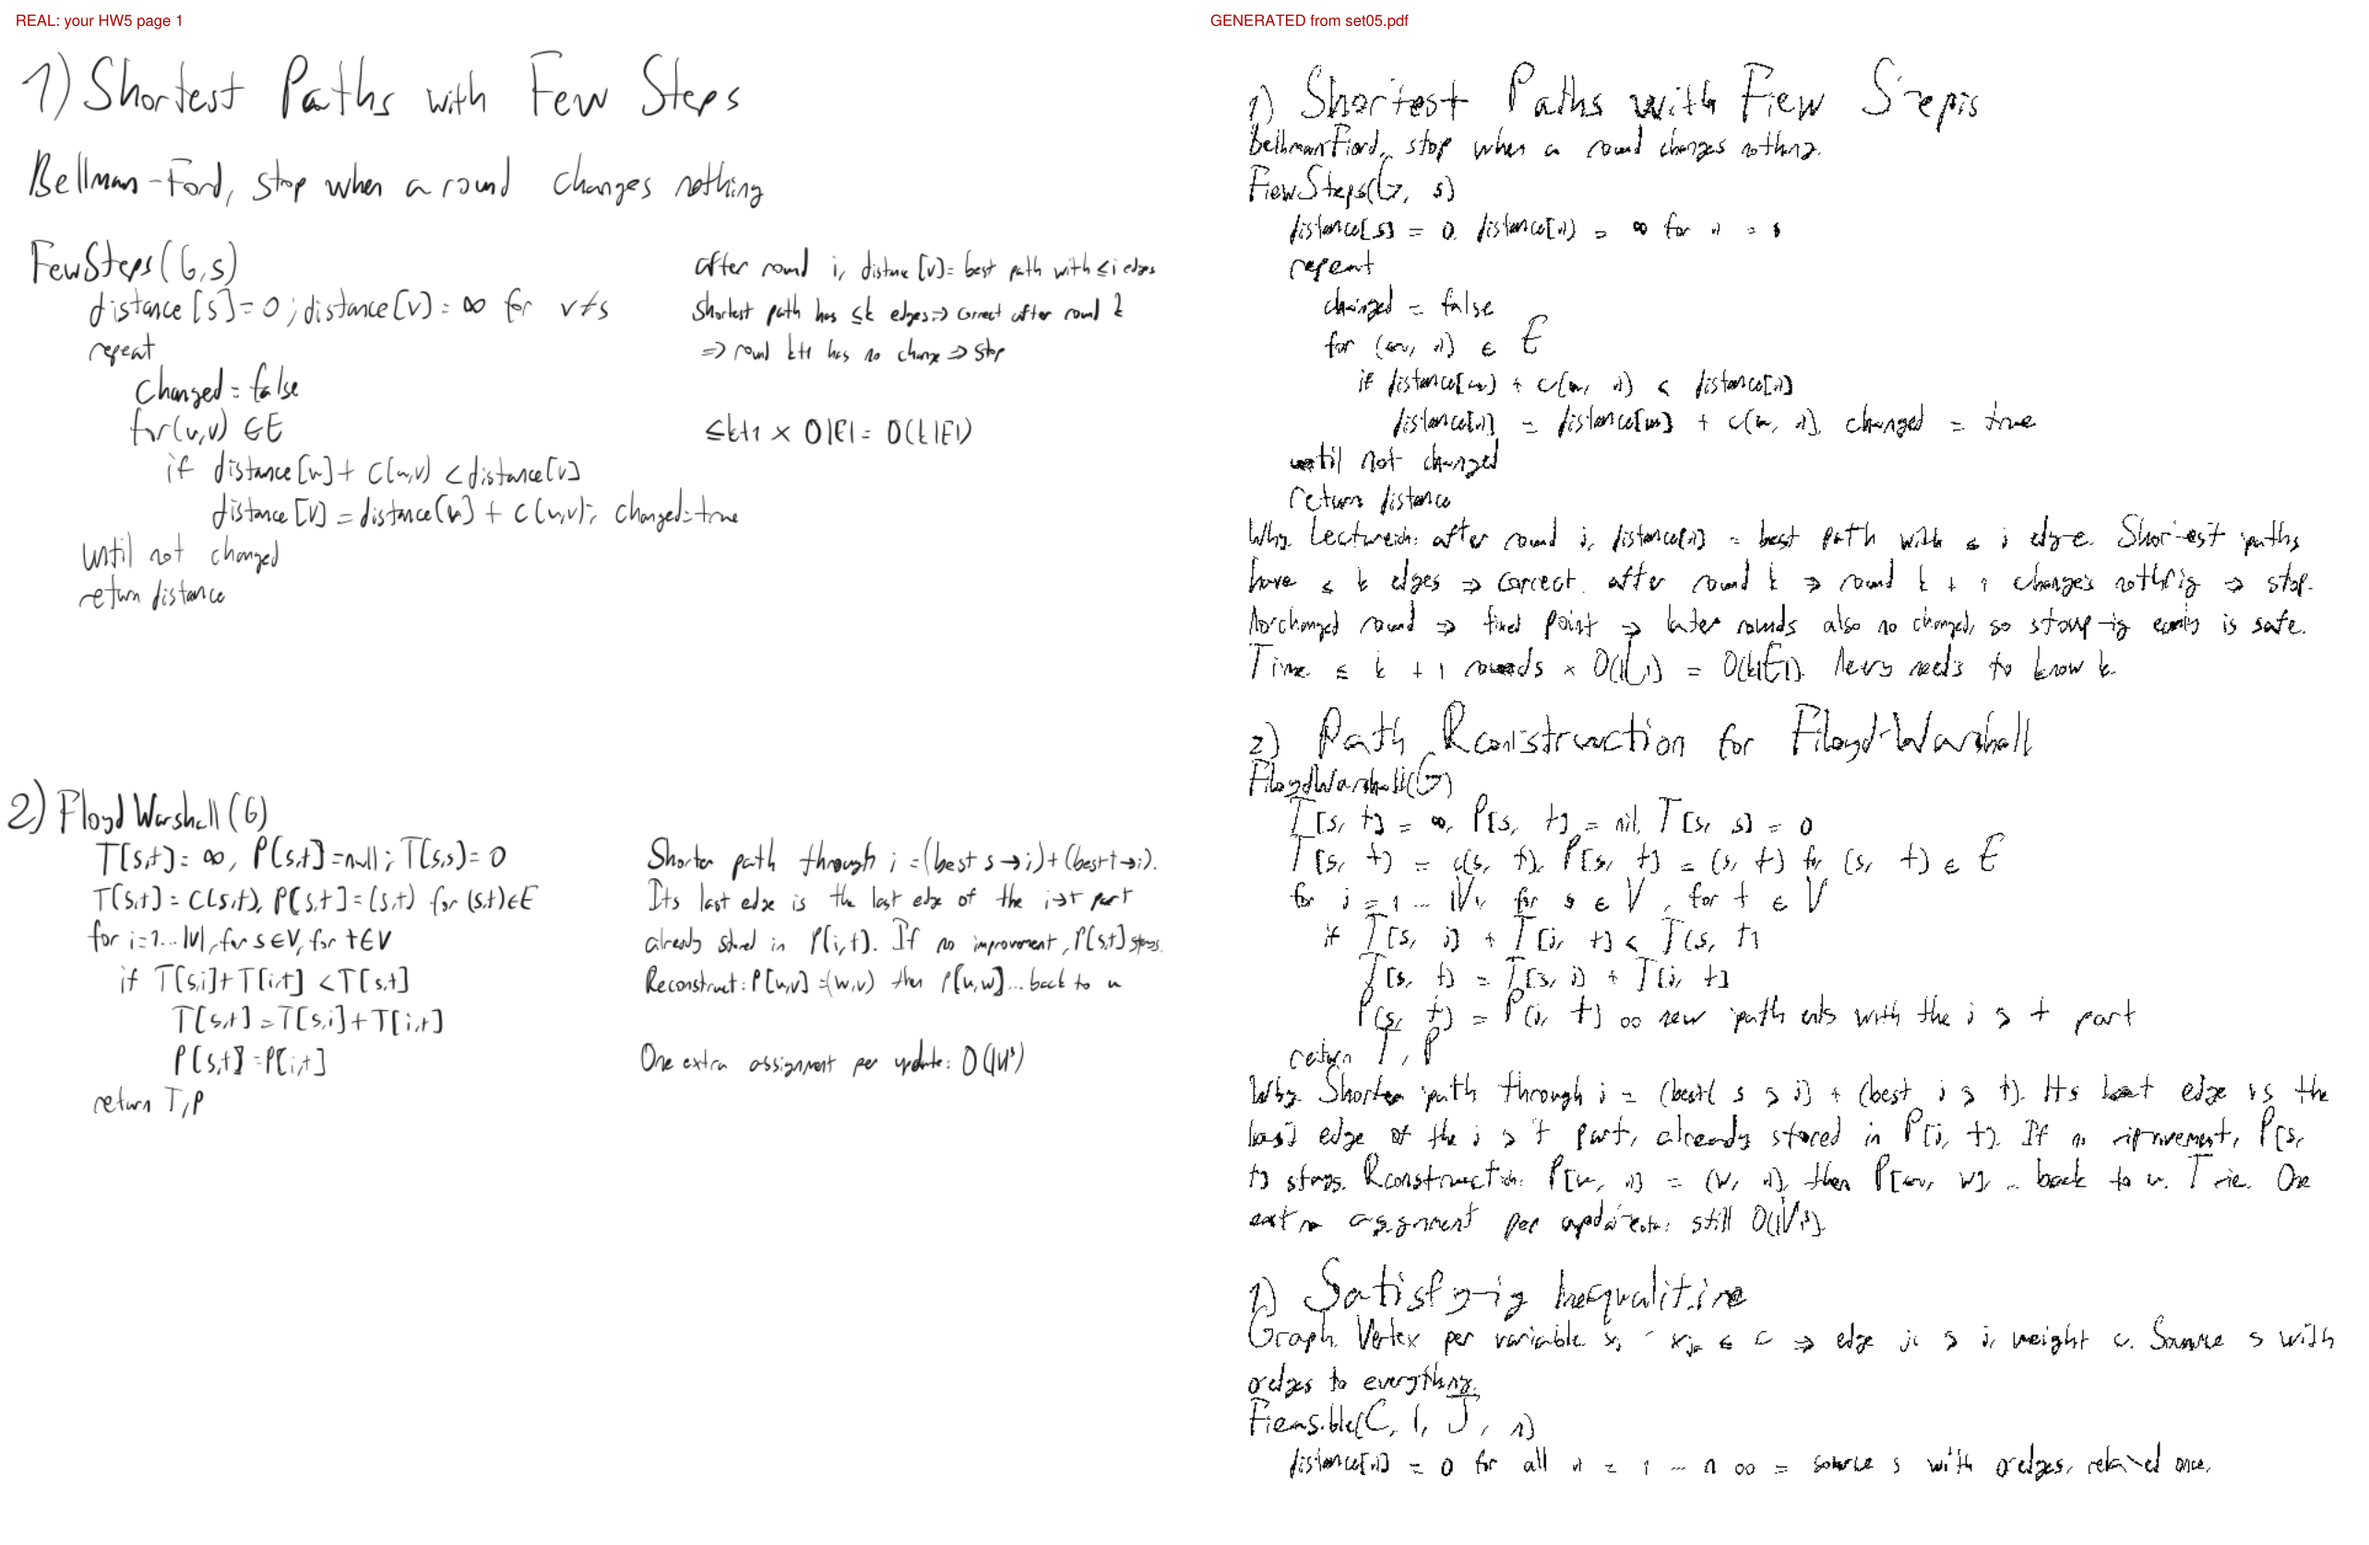
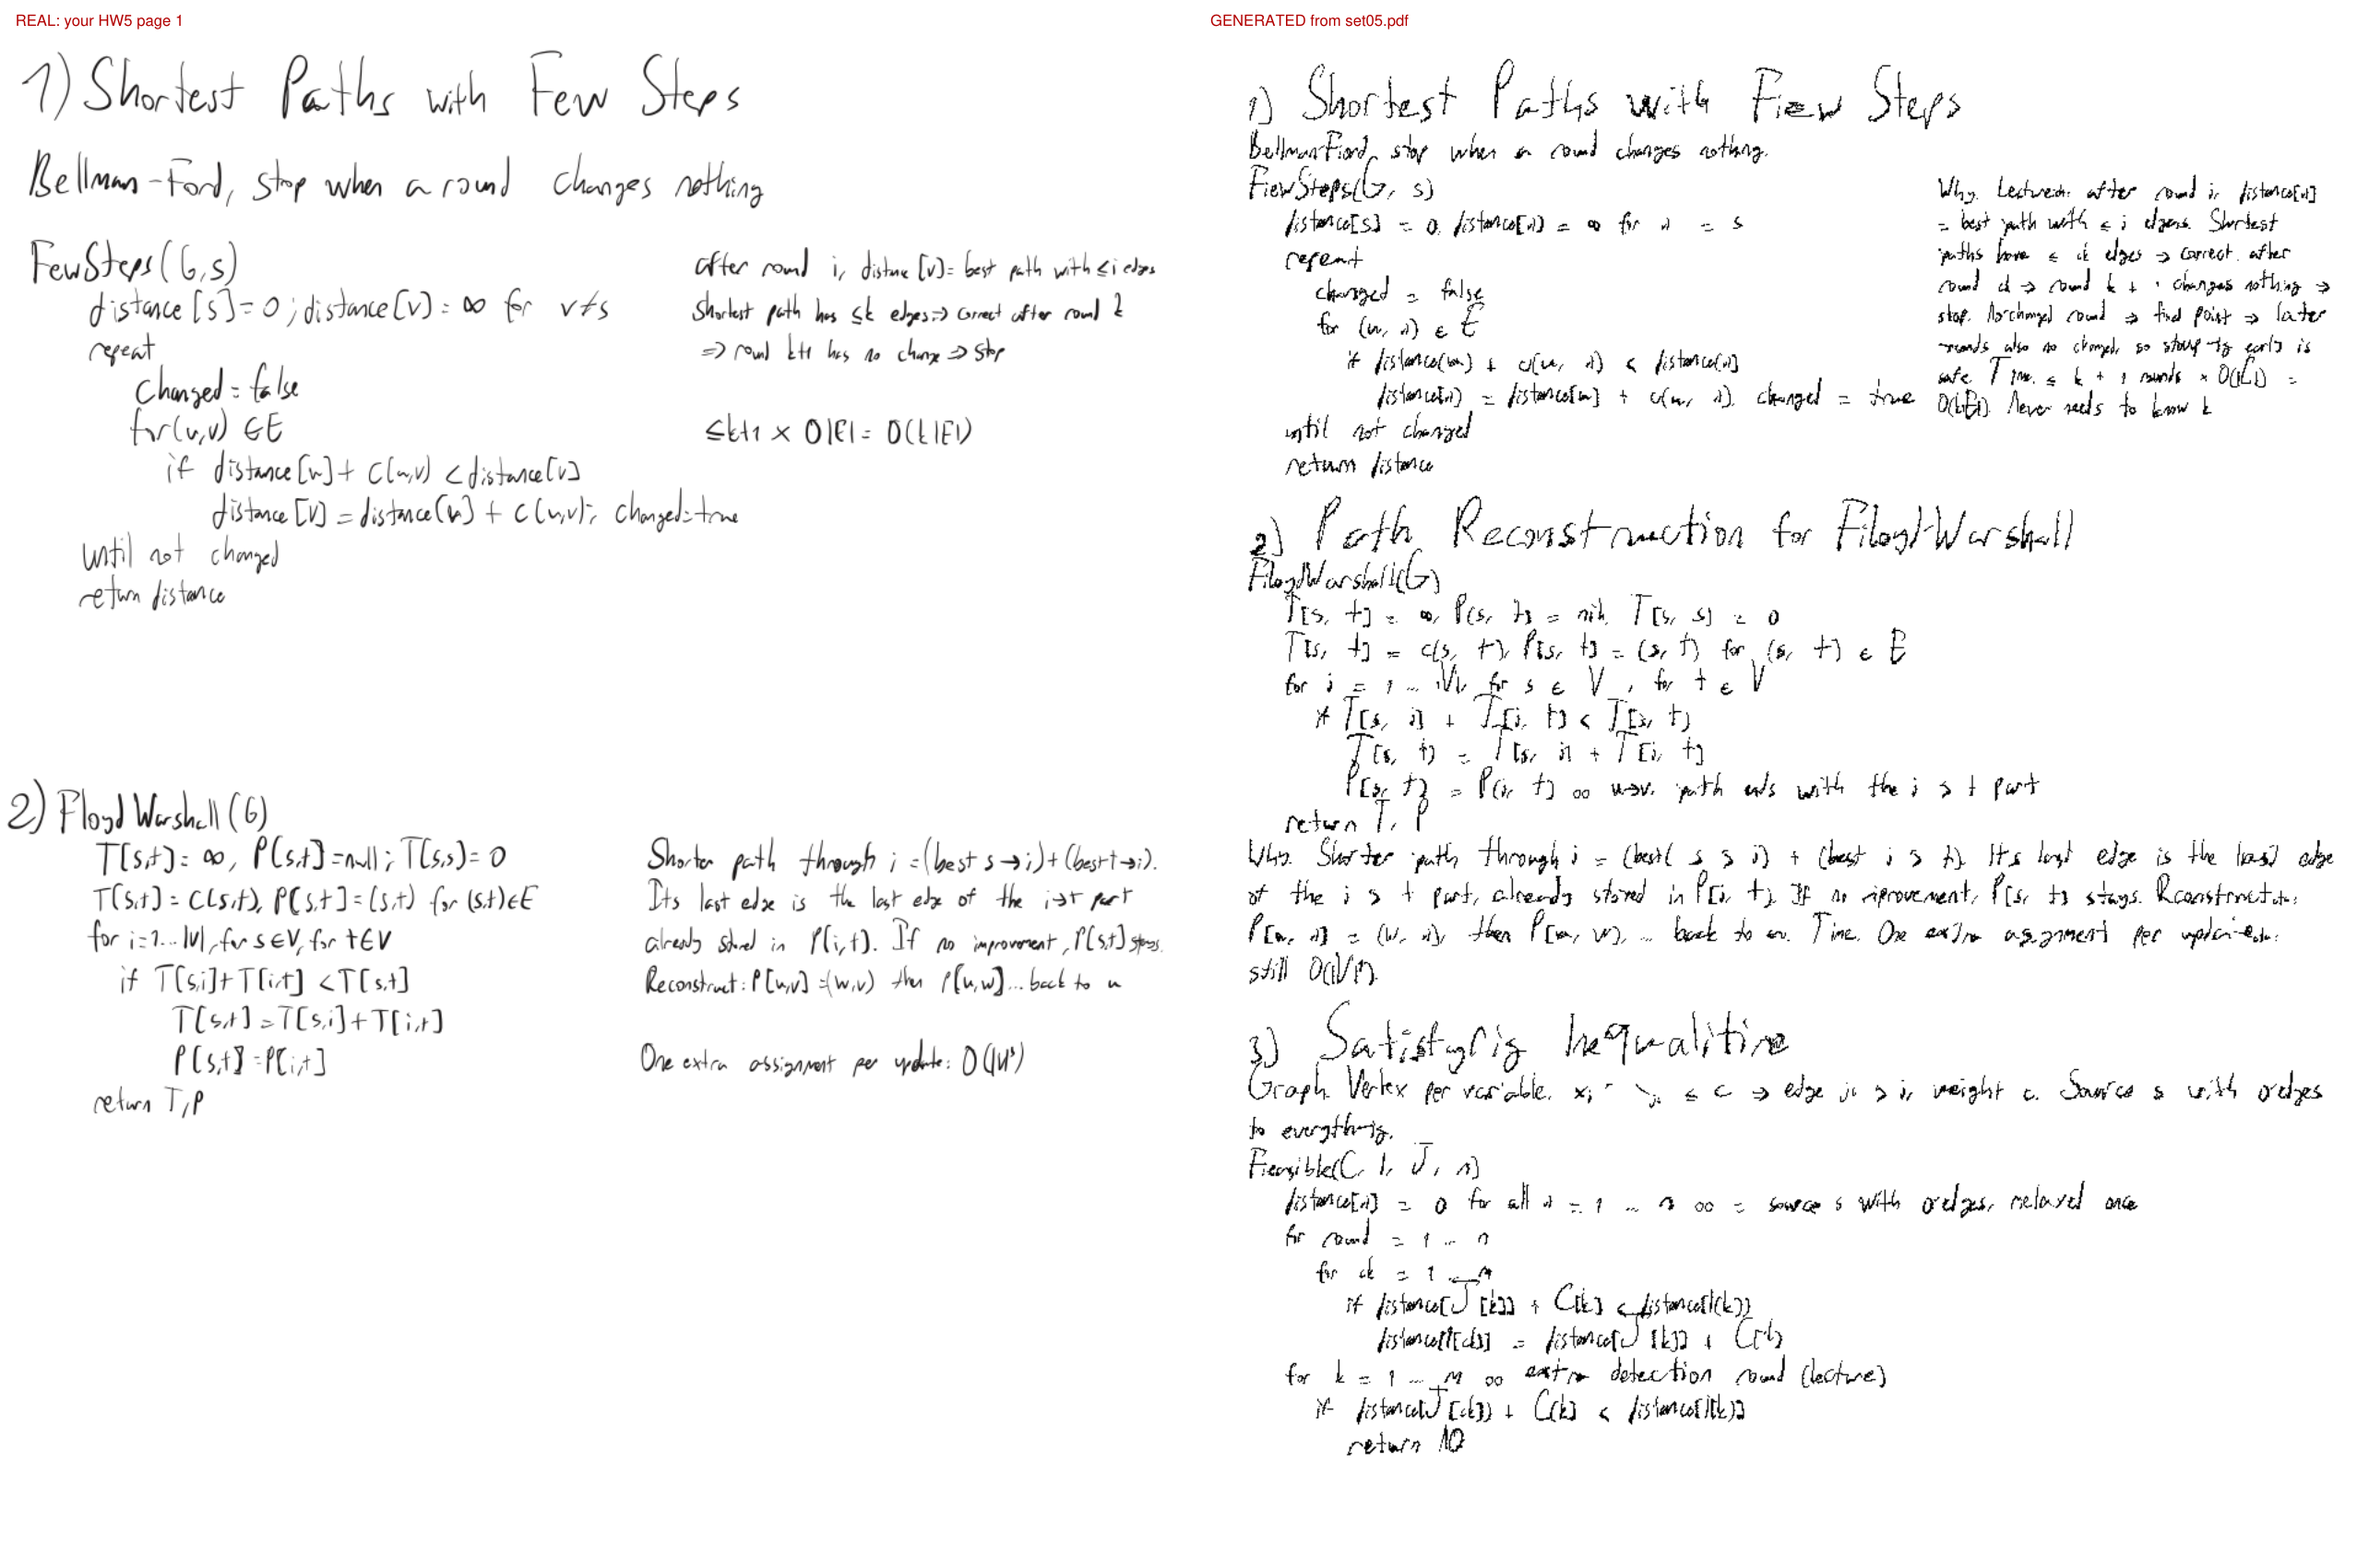
Two-column HW layout (code left, notes right), HW-matched sizes, measured column split

Changed region(s): [[0.5296, 0.031, 0.9969, 0.9624], [0.8411, 0.9313, 0.9346, 0.9624]]

diff --git a/inkclone/page.py b/inkclone/page.py
@@ -15,10 +15,11 @@ MARGIN_L, MARGIN_R, MARGIN_T, MARGIN_B = 18.0, 14.0, 16.0, 20.0
 
 
 class Page:
-    def __init__(self, seed=0, body_xh=4.2, header_xh=6.4):
+    def __init__(self, seed=0, body_xh=3.75, header_xh=6.6, two_column=True, note_scale=0.8, col_split=0.52):
         self.s = Synth2(seed=seed); self.rng = random.Random(seed)
         self.sym = pickle.load(open("data/derived/symbols_final.pkl", "rb"))
         self.body_xh, self.header_xh = body_xh, header_xh
+        self.two_column, self.note_scale, self.col_split = two_column, note_scale, col_split
         self.missing = collections.Counter()
         self.s.pen_target = 0.49  # the writer's measured pen width in pt
         self.doc_slant = max(-9.0, min(0.0, self.rng.gauss(self.s.stats.get("slant_deg_median", -4.4), 1.5)))
@@ -101,34 +102,65 @@ class Page:
             x += w * xh * jit + wg * xh * self.rng.uniform(0.7, 1.25)
         return out, []
 
+    def sections(self, lines, include_title=False):
+        """Group parsed lines into sections: header, intro prose (before code), code lines, notes (prose after code)."""
+        secs, cur = [], None
+        for ln in lines:
+            if ln["kind"] == "meta" or (ln["kind"] == "title" and not include_title): continue
+            if ln["kind"] in ("header", "title") or cur is None:
+                cur = {"header": ln["text"] if ln["kind"] in ("header", "title") else None, "intro": [], "code": [], "notes": []}; secs.append(cur)
+                if ln["kind"] not in ("header", "title"): cur[("code" if ln["kind"] == "code" else "intro")].append(ln)
+                continue
+            if ln["kind"] == "code": cur["code"].append(ln)
+            elif cur["code"]: cur["notes"].append(ln)
+            else: cur["intro"].append(ln)
+        return secs
+
+    def prose_block(self, text, xh, x0, y, max_w, used):
+        """wrap a paragraph; returns (strokes, new y)."""
+        out, rest = [], text
+        while rest:
+            st, left = self.line_strokes(rest, xh, x0, y + 1.8 * xh, used, max_w=max_w); out += st; y += 4.0 * xh
+            rest = " ".join(left) if left else ""
+        return out, y
+
     def layout(self, lines, include_title=False):
         pages, cur, y = [], [], MARGIN_T; used = set()
+        full_w = PAGE_W - MARGIN_L - MARGIN_R
         def newpage():
             nonlocal cur, y
             if cur: pages.append(cur)
             cur, y = [], MARGIN_T
         def need(h):
-            nonlocal y
             if y + h > PAGE_H - MARGIN_B: newpage()
-        prev_kind = None
-        for ln in lines:
-            kind, text = ln["kind"], ln["text"]
-            if kind == "meta" or (kind == "title" and not include_title): continue
-            xh = self.header_xh if kind in ("header", "title") else self.body_xh
-            if kind == "header":
-                y += 1.6 * self.body_xh if prev_kind else 0; need(3.2 * xh)
-                st, _ = self.line_strokes(text, xh, MARGIN_L, y + 2.2 * xh, used); cur += st; y += 3.4 * xh
-            elif kind == "code":
-                need(3 * xh); x0 = MARGIN_L + 3.2 * xh * ln["indent"] + (0 if ln["indent"] == 0 else 0.6 * xh)
-                st, _ = self.line_strokes(text, xh, x0, y + 1.8 * xh, used); cur += st; y += 3.6 * xh
-            else:  # prose: wrap
-                rest = text; first = True
-                while rest:
-                    need(3 * xh)
-                    st, left = self.line_strokes(rest, xh, MARGIN_L, y + 1.8 * xh, used, max_w=PAGE_W - MARGIN_L - MARGIN_R)
-                    cur += st; y += 4.0 * xh; rest = " ".join(left) if left else ""
-                if prev_kind == "code": pass
-            prev_kind = kind
+        xh = self.body_xh
+        for si, sec in enumerate(self.sections(lines, include_title)):
+            if sec["header"]:
+                if si: y += 2.0 * xh
+                need(3.2 * self.header_xh + 8 * xh)
+                st, _ = self.line_strokes(sec["header"], self.header_xh, MARGIN_L, y + 2.2 * self.header_xh, used); cur += st; y += 3.6 * self.header_xh
+            for ln in sec["intro"]:
+                need(4 * xh); st, y = self.prose_block(ln["text"], xh, MARGIN_L, y, full_w, used); cur += st
+            if sec["code"]:
+                need(3.6 * xh * min(len(sec["code"]), 4))
+                y_top = y; code_strokes = []
+                for ln in sec["code"]:
+                    need(3.6 * xh)
+                    if y == MARGIN_T: y_top = y; code_strokes = []
+                    x0 = MARGIN_L + 3.2 * xh * ln["indent"] + (0 if ln["indent"] == 0 else 0.6 * xh)
+                    st, _ = self.line_strokes(ln["text"], xh, x0, y + 1.8 * xh, used); cur += st; code_strokes += st; y += 3.6 * xh
+                y_code_end = y
+                if self.two_column and sec["notes"] and code_strokes:
+                    code_right = max(p[:, 0].max() for p in code_strokes)
+                    nx0 = max(code_right + 2.5 * xh, MARGIN_L + 0.42 * full_w); nw = PAGE_W - MARGIN_R - nx0; nxh = xh * self.note_scale
+                    if nw >= 0.30 * full_w:
+                        yn = y_top + 0.6 * xh; pending = list(sec["notes"])
+                        while pending and yn < PAGE_H - MARGIN_B - 4 * nxh:
+                            ln = pending.pop(0); st, yn = self.prose_block(ln["text"], nxh, nx0, yn, nw, used); cur += st; yn += 0.8 * nxh
+                        y = max(y_code_end, yn)
+                        sec = dict(sec, notes=pending)  # anything that did not fit goes below, full width
+            for ln in sec["notes"]:
+                need(4 * xh); st, y = self.prose_block(ln["text"], xh, MARGIN_L, y, full_w, used); cur += st
         newpage(); return pages
 
     def render(self, pages, out_prefix, dpi=300, vector=True):

diff --git a/reports/2026-10-06-feasibility.md b/reports/2026-10-06-feasibility.md
@@ -70,3 +70,9 @@ Open question: target documents are math or prose? Math needs its own layout + s
 - `reports/pick_the_fake.png` + sealed `pick_the_fake_KEY.txt`: 24 word crops, 12 real / 12 assembled. Author's own read: ~5 fakes obvious (garbled), ~7 plausible.
 - Vector export: `page_set05_eval.vector.pdf` (one filled ribbon per stroke, 4,341 paths on p1), opens as real ink.
 - Next: two-column HW layout (code left, notes right, smaller), body x-height matched to HW5 (~3.6pt).
+
+## Two-column HW layout (~20:30)
+
+- Measured HW x-height 3.65-3.9pt (was rendering at 4.2). Body now 3.75, header 6.6.
+- `page.py` sections: header, intro prose full width, code left, notes right at 0.8x starting level with the code; column split measured from the actual code width, fallback to notes-below when code is wide; overflow notes continue below.
+- `reports/side_by_side_hw5.png` regenerated: structure now matches the real HW5 page (code left, small notes right, one page for the content).
